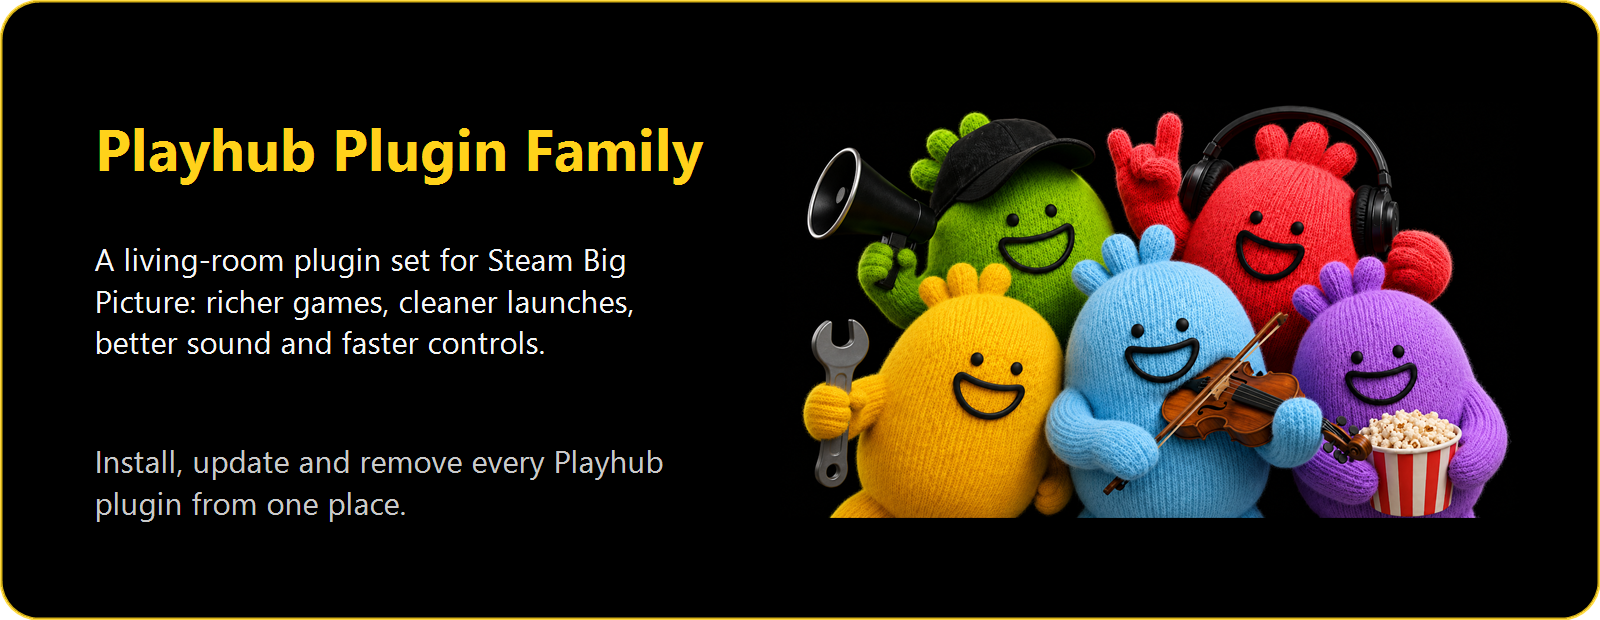
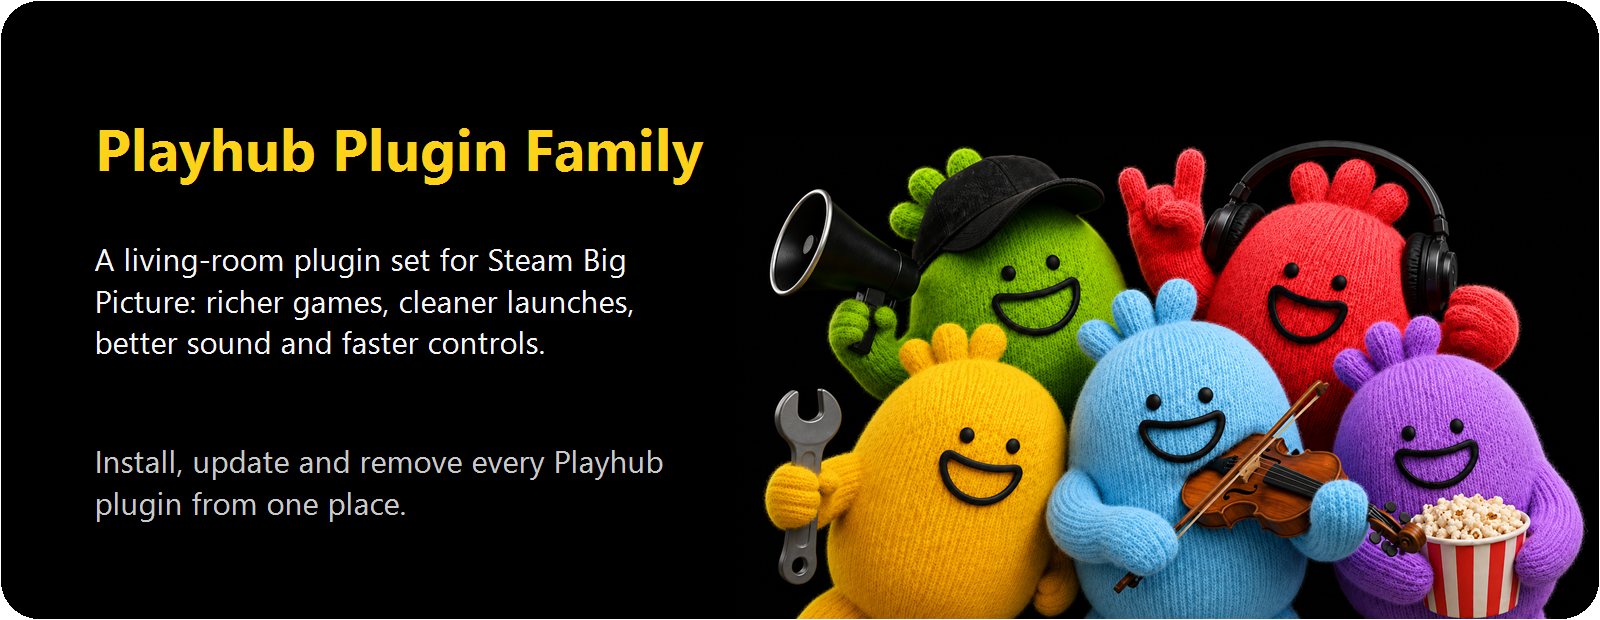
Readme update

diff --git a/README.md b/README.md
@@ -1,24 +1,23 @@
 <div align="center">
 
-<img src="docs/images/readme-logo-card.png" width="100%" alt="Playhub" />
+<img src="docs/images/readme-logo-card.png" width="70%" alt="Playhub" />
 
 <h3>Your Windows gaming PC, with the soul of a console.</h3>
 
 <p>
   <b>Playhub</b> makes Windows feel at home on the couch:
-  Steam startup, Decky plugins, game imports and Big Picture polish.
+  Steam-first startup, Decky plugins, game imports and Big Picture polish.
 </p>
 
-<p>Native. Dark. Controller first. Multilingual.</p>
+<p>Native. Dark. Controller-first. Multilingual.</p>
 
 <a href="https://github.com/LoZazaMastro/Playhub/releases/latest">
-  <img src="docs/images/readme-button-download.png" width="360" alt="Download Playhub" />
+  <img src="docs/images/readme-button-download.png" width="252" alt="Download Playhub" />
 </a>
-
-<br/>
+&nbsp;&nbsp;&nbsp;&nbsp;
 
 <a href="https://ko-fi.com/LoZazaMastro">
-  <img src="docs/images/readme-button-support.png" width="360" alt="Support Playhub on Ko-fi" />
+  <img src="docs/images/readme-button-support.png" width="252" alt="Support Playhub on Ko-fi" />
 </a>
 
 <br/>
@@ -61,49 +60,44 @@
   <img src="docs/images/readme-plugin-metadata.png" width="100%" alt="Playhub Metadata card" />
 </a>
 
-<br/>
+<br/><br/>
 
 <a href="https://github.com/LoZazaMastro/ThemeDeck-Windows">
   <img src="docs/images/readme-plugin-themedeck.png" width="100%" alt="ThemeDeck card" />
 </a>
 
-<br/>
+<br/><br/>
 
 <a href="https://github.com/LoZazaMastro/Launch-Curtain">
   <img src="docs/images/readme-plugin-launch-curtain.png" width="100%" alt="Launch Curtain card" />
 </a>
 
-<br/>
+<br/><br/>
 
 <a href="https://github.com/LoZazaMastro/TrailerHero">
   <img src="docs/images/readme-plugin-trailerhero.png" width="100%" alt="TrailerHero card" />
 </a>
 
-<br/>
+<br/><br/>
 
 <a href="https://github.com/LoZazaMastro/Now-Playing">
   <img src="docs/images/readme-plugin-now-playing.png" width="100%" alt="Now Playing card" />
 </a>
 
-<br/>
+<br/><br/>
 
 <a href="https://github.com/LoZazaMastro/Quick-Settings">
   <img src="docs/images/readme-plugin-quick-settings.png" width="100%" alt="Quick Settings card" />
 </a>
 
-<br/>
+<br/><br/>
 
-<a href="https://github.com/LoZazaMastro/Weather">
-  <img src="docs/images/readme-plugin-weather.png" width="100%" alt="Weather card" />
-</a>
+### Other Plugins
 
-<br/>
+- [Weather](https://github.com/LoZazaMastro/Weather): current weather, daily forecasts and hourly forecasts in the Quick Access Menu.
+- [Playhub Surround](https://github.com/LoZazaMastro/Playhub-Surround): speaker layout tests for stereo, 5.1 and 7.1 living-room setups.
 
-<a href="https://github.com/LoZazaMastro/Playhub-Surround">
-  <img src="docs/images/readme-plugin-surround.png" width="100%" alt="Playhub Surround card" />
-</a>
-
-<br/>
+<br/><br/>
 
 ## Built For The Living Room
 
